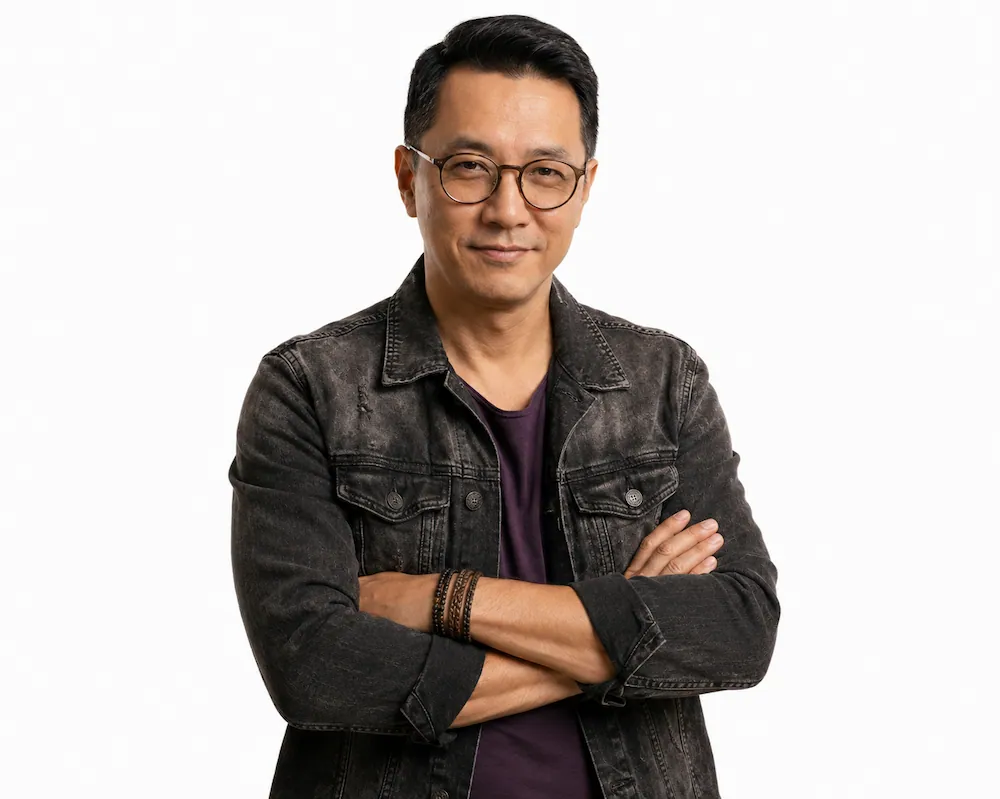
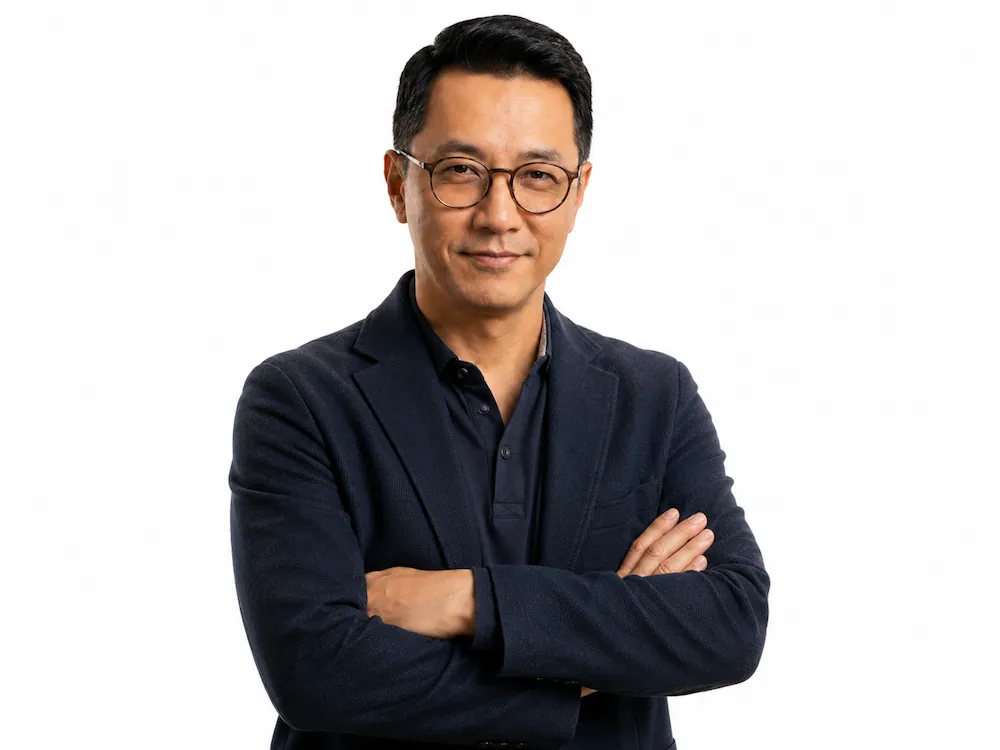
feat(instructors): rename Monique to Diana and refresh Hiroshi/Rick portraits
Renames the ambassador character from Monique to Diana across data,
gallery card, profile page and Home spotlight rotation, and swaps in
updated card/profile artwork for Hiroshi and a new profile image for Rick.

Changed region(s): [[0.217, 0.0, 0.806, 1.0], [0.248, 0.9813, 0.279, 1.0]]

diff --git a/data/instructors.ts b/data/instructors.ts
@@ -141,6 +141,21 @@ export const instructors: InstructorProfile[] = [
     quote: 'Um bom riff diz tudo antes mesmo do vocal entrar.',
   },
   {
+    id: 'diana',
+    name: 'Diana',
+    title: 'Embaixadora do GA',
+    shortDescription: 'Porta-voz virtual do GA, apresenta a jornada, comunica novidades e conecta o usuário aos ambientes do ecossistema.',
+    longDescription: 'Diana é a Embaixadora do GA. Ela apresenta o ecossistema, conecta Kids, Teens, Studio e os Arquitetos Musicais, comunica novidades e ajuda o usuário a entender como teoria, prática e percepção se transformam em uma construção musical estruturada. Sua presença representa a visão institucional do GA: aprender música com direção, identidade e progressão.',
+    personality: ['Acolhedora', 'Motivadora', 'Estratégica'],
+    strengths: ['Apresentação da jornada', 'Comunicação institucional', 'Conexão entre ambientes do ecossistema'],
+    categories: ['institutional', 'communication', 'journey'],
+    relatedModules: ['Ecossistema', 'Kids', 'Teens', 'Studio'],
+    unlockLabel: 'Mentoria em breve',
+    cardImage: instructorCardPath('diana'),
+    heroImage: instructorProfilePath('diana'),
+    quote: 'Uma boa jornada musical não começa no improviso. Ela começa com direção.',
+  },
+  {
     id: 'erika',
     name: 'Erika',
     title: 'Baixo & Bases',
@@ -261,21 +276,6 @@ export const instructors: InstructorProfile[] = [
     quote: 'Antes de tocar a nota certa, é preciso ouvi-la de verdade.',
   },
   {
-    id: 'monique',
-    name: 'Monique',
-    title: 'Embaixadora do GA',
-    shortDescription: 'Porta-voz virtual do GA, apresenta a jornada, comunica novidades e conecta o usuário aos ambientes do ecossistema.',
-    longDescription: 'Monique é a Embaixadora do GA. Ela apresenta o ecossistema, conecta Kids, Teens, Studio e os Arquitetos Musicais, comunica novidades e ajuda o usuário a entender como teoria, prática e percepção se transformam em uma construção musical estruturada. Sua presença representa a visão institucional do GA: aprender música com direção, identidade e progressão.',
-    personality: ['Acolhedora', 'Motivadora', 'Estratégica'],
-    strengths: ['Apresentação da jornada', 'Comunicação institucional', 'Conexão entre ambientes do ecossistema'],
-    categories: ['institutional', 'communication', 'journey'],
-    relatedModules: ['Ecossistema', 'Kids', 'Teens', 'Studio'],
-    unlockLabel: 'Mentoria em breve',
-    cardImage: instructorCardPath('monique'),
-    heroImage: instructorProfilePath('monique'),
-    quote: 'Uma boa jornada musical não começa no improviso. Ela começa com direção.',
-  },
-  {
     id: 'morena',
     name: 'Morena',
     title: 'Acordes e Expressividade',
@@ -376,7 +376,7 @@ export const getInstructorById = (id: string): InstructorProfile | undefined =>
   instructors.find(instructor => instructor.id === id);
 
 export const instructorSpotlightGroups: string[][] = [
-  ['monique', 'nina', 'victor', 'bill'],
+  ['diana', 'nina', 'victor', 'bill'],
   ['alice', 'rick', 'hiroshi', 'roxie'],
   ['erika', 'kael', 'mel', 'arthur'],
   ['morena', 'juan', 'fred', 'dean'],

diff --git a/components/InstructorProfilePage.tsx b/components/InstructorProfilePage.tsx
@@ -78,7 +78,7 @@ const InstructorProfilePage: React.FC<InstructorProfilePageProps> = ({ instructo
     : 'border-[rgba(30,64,175,0.4)] bg-[rgba(10,20,36,0.92)] text-blue-200';
 
   const instructor = getInstructorById(instructorId);
-  const isAmbassador = instructor?.id === 'monique';
+  const isAmbassador = instructor?.id === 'diana';
 
   const t = lang === 'pt'
     ? {
@@ -110,8 +110,8 @@ const InstructorProfilePage: React.FC<InstructorProfilePageProps> = ({ instructo
     t.personalityTitle = lang === 'pt' ? 'Personalidade e estilo de comunicação' : 'Personality and communication style';
     t.noticeTitle = lang === 'pt' ? 'Guia da jornada em construção' : 'Journey guide in progress';
     t.noticeBody = lang === 'pt'
-      ? 'Em breve, Monique ajudará a apresentar novidades, orientar caminhos dentro do ecossistema e conectar conteúdos, trilhas e desafios do Guitar Architect.'
-      : 'Soon, Monique will help introduce updates, guide paths through the ecosystem, and connect Guitar Architect content, tracks, and challenges.';
+      ? 'Em breve, Diana ajudará a apresentar novidades, orientar caminhos dentro do ecossistema e conectar conteúdos, trilhas e desafios do Guitar Architect.'
+      : 'Soon, Diana will help introduce updates, guide paths through the ecosystem, and connect Guitar Architect content, tracks, and challenges.';
   }
 
   if (!instructor) {

diff --git a/components/InstructorCard.tsx b/components/InstructorCard.tsx
@@ -25,7 +25,7 @@ interface InstructorCardProps {
 }
 
 const InstructorCard: React.FC<InstructorCardProps> = ({ instructor, isLight, lang }) => {
-  const isAmbassador = instructor.id === 'monique';
+  const isAmbassador = instructor.id === 'diana';
   const panelClass = isLight
     ? 'border-zinc-200 bg-white shadow-lg'
     : 'border-[rgba(30,64,175,0.4)] bg-[rgba(10,20,36,0.92)] shadow-[0_12px_40px_rgba(0,0,0,0.45)]';